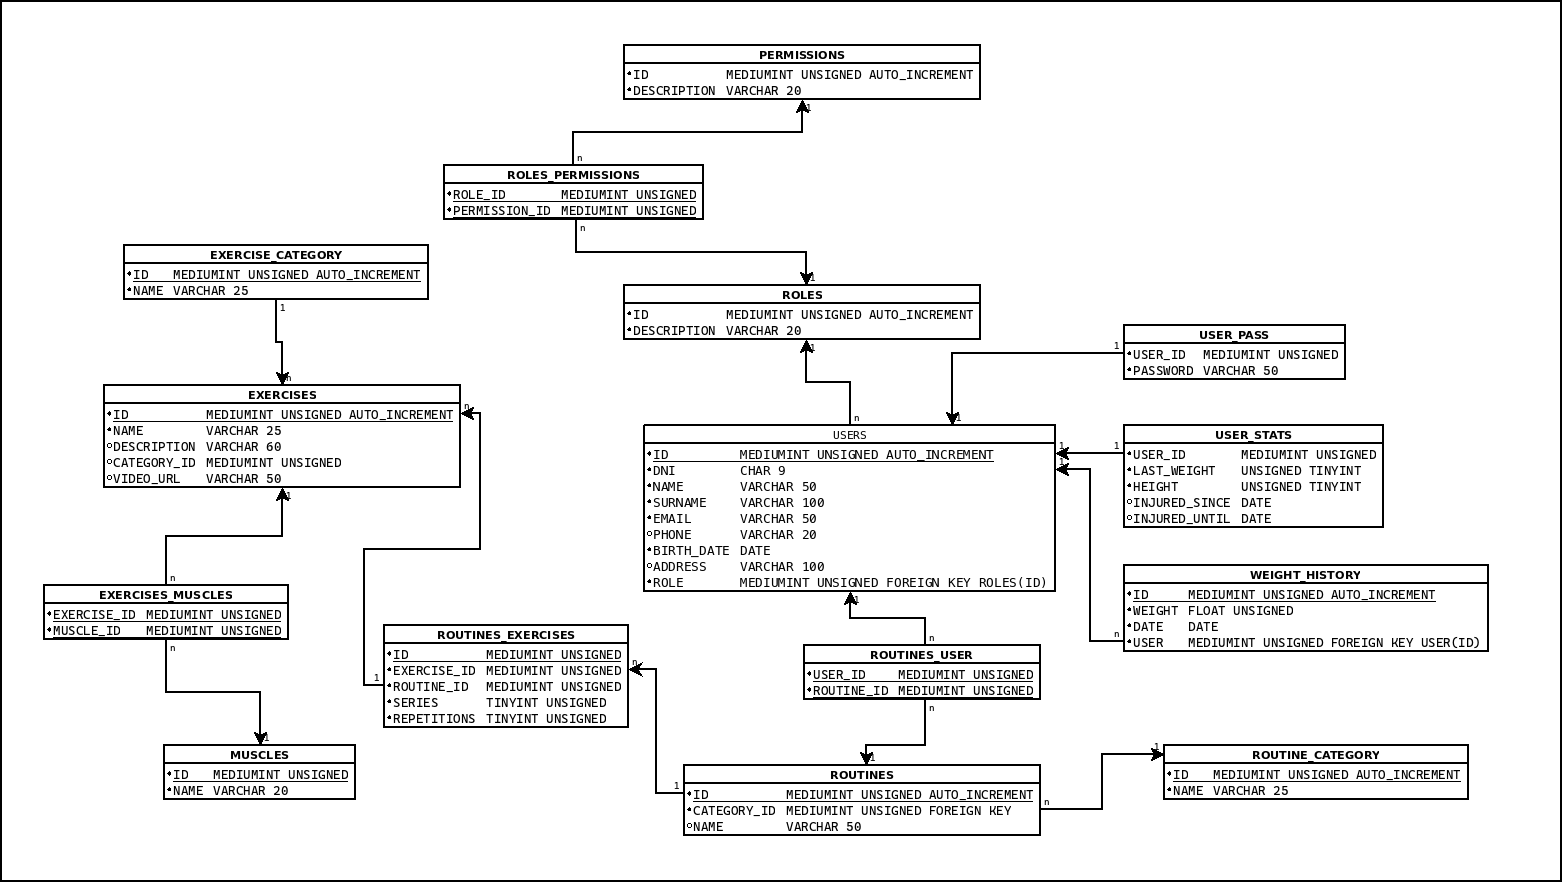
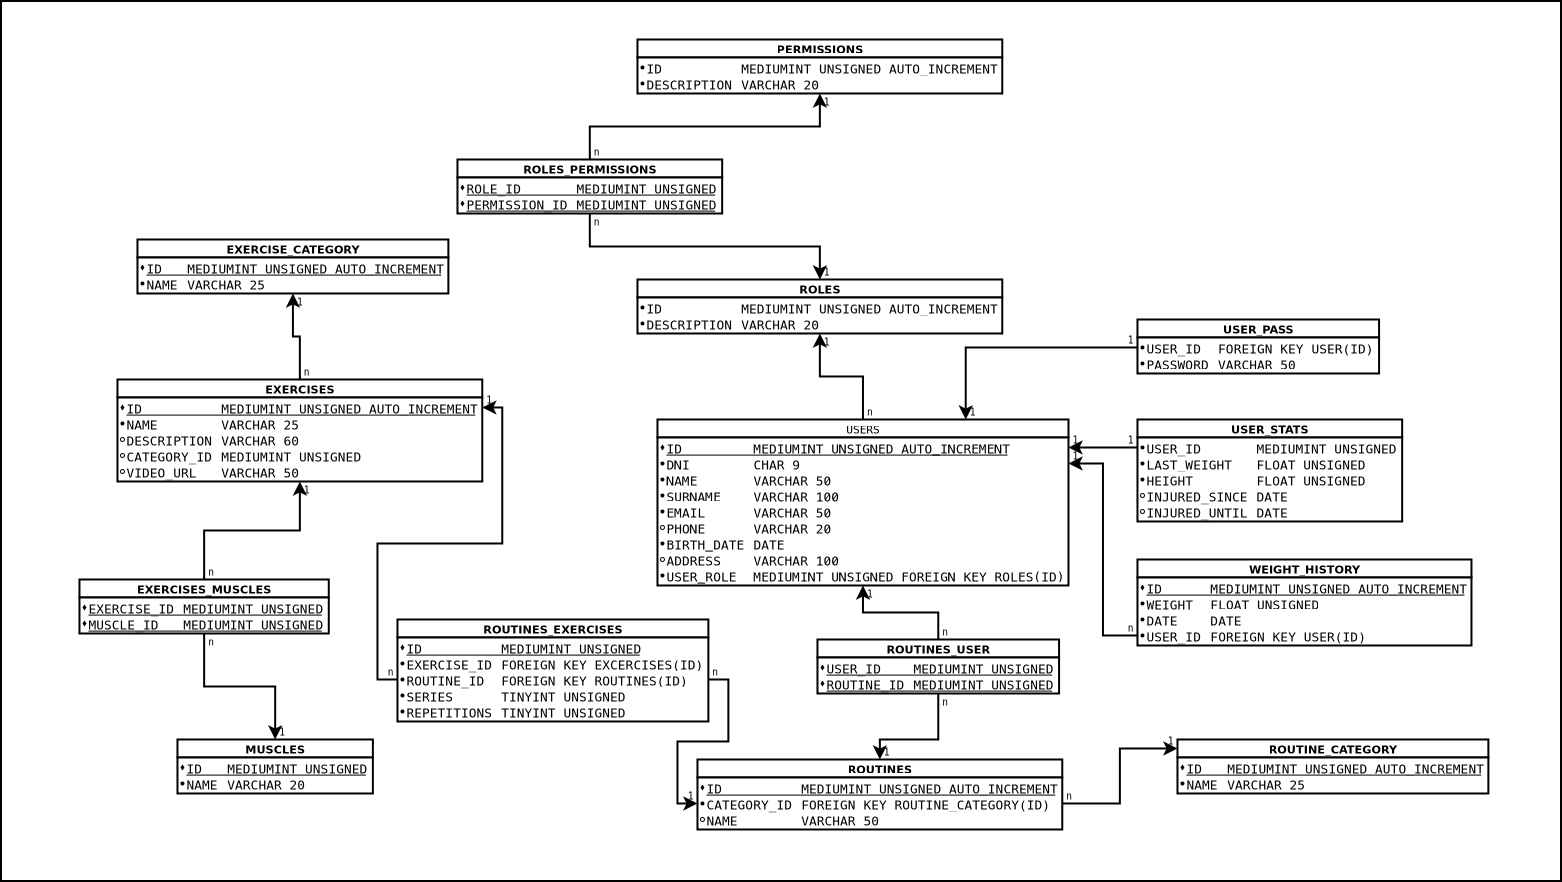
cambios de nombres y fix relaciones

diff --git a/README.md b/README.md
@@ -1,1 +1,3 @@
-# fitness-backend
+# YouLift Back End
+## ER Diagram
+![ER](docs/ER/ER.png)
